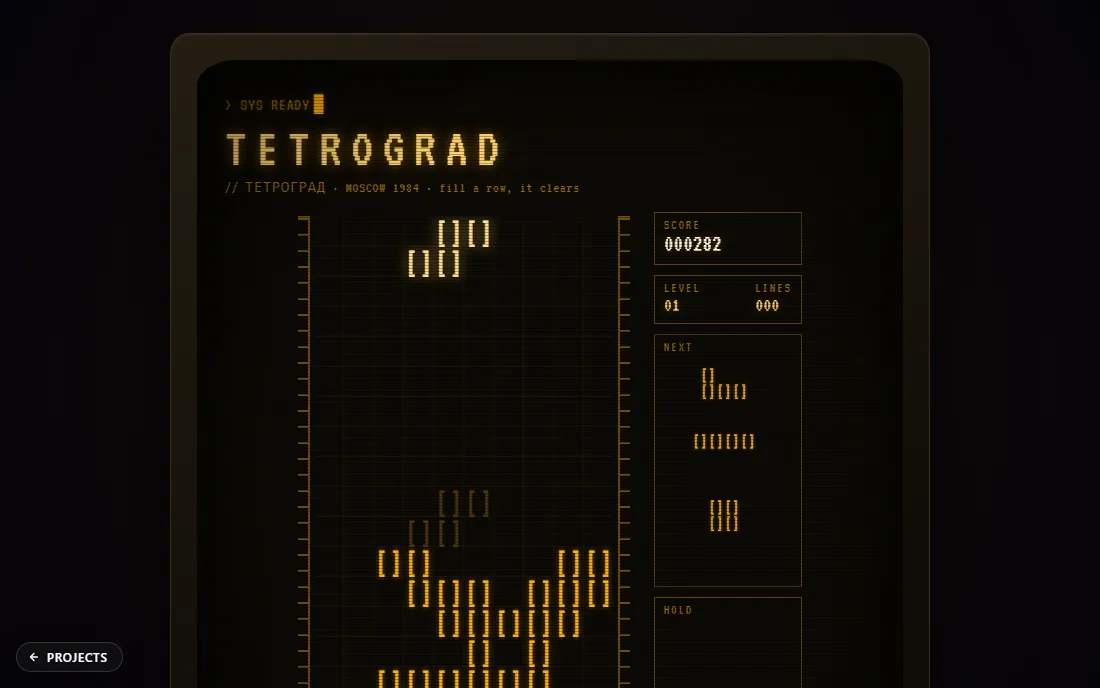
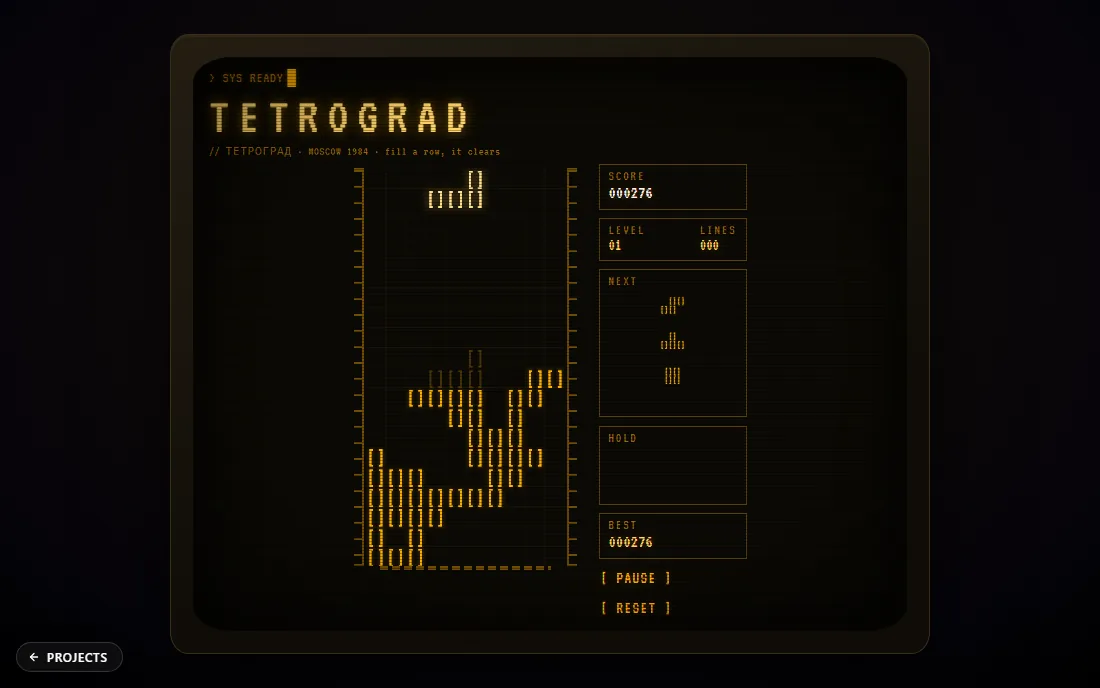
fix(dry-dock): fit Tetrograd to the viewport, no scroll to play
- the well now sizes from viewport height (--board-h, svh-based) and
  the width follows at 1:2, so the whole terminal fits without a
  scroll on laptop and desktop heights (tested 640 to 1080)
- masthead, boot line and subtitle trim on short viewports; NEXT and
  HOLD trays scale down; CRT padding tightened
- phones keep the readout beside the board (width-led board there)
- re-shot the thumbnail so the full game shows in frame

diff --git a/dry-dock/style.css b/dry-dock/style.css
@@ -16,16 +16,20 @@
   --phos-faint:#5c400a;
   --scan:      rgba(0, 0, 0, 0.32);
   --font: "VT323", "Consolas", ui-monospace, monospace;
+
+  /* the well is 10x20; height drives everything, width follows at 1:2.
+     the subtrahend reserves room for the casing, masthead and body pad. */
+  --board-h: clamp(360px, min(100svh - 290px, 116vw), 600px);
 }
 
 html { min-height: 100%; }
 
 body {
-  min-height: 100vh;
+  min-height: 100svh;
   display: flex;
   align-items: center;
   justify-content: center;
-  padding: clamp(10px, 3vw, 40px);
+  padding: clamp(8px, 2vw, 28px);
   font-family: var(--font);
   color: var(--phos);
   background:
@@ -45,7 +49,8 @@ body {
 /* -- CRT casing + screen ------------------------------- */
 .crt {
   width: min(760px, 100%);
-  padding: clamp(12px, 3vw, 26px);
+  max-height: calc(100svh - 16px);
+  padding: clamp(10px, 2.4vw, 22px);
   background: linear-gradient(160deg, #241d12, #0f0c07 70%);
   border-radius: 18px / 22px;
   border: 1px solid #3a2f1a;
@@ -55,7 +60,7 @@ body {
 }
 .screen {
   position: relative;
-  padding: clamp(16px, 3.5vw, 34px) clamp(14px, 3vw, 28px);
+  padding: clamp(12px, 2.6vw, 26px) clamp(12px, 2.6vw, 24px);
   background: var(--bg);
   border-radius: 40px / 26px;
   overflow: hidden;
@@ -98,9 +103,9 @@ body {
 @keyframes blink { 50% { opacity: 0; } }
 @media (prefers-reduced-motion: reduce) { .cursor { animation: none; } }
 
-.masthead { margin: 6px 0 16px; }
+.masthead { margin: 4px 0 clamp(8px, 2vh, 16px); }
 .masthead h1 {
-  font-size: clamp(2rem, 7vw, 3.4rem);
+  font-size: clamp(1.6rem, 4.5vw + 1vh, 3.2rem);
   font-weight: 400;
   letter-spacing: 0.18em;
   line-height: 1;
@@ -108,7 +113,7 @@ body {
   text-shadow: 0 0 12px rgba(255, 176, 0, 0.5), 0 0 30px rgba(255, 176, 0, 0.2);
 }
 .masthead-sub {
-  font-size: 0.95rem;
+  font-size: clamp(0.78rem, 1.6vw, 0.95rem);
   letter-spacing: 0.04em;
   color: var(--phos-dim);
   margin-top: 2px;
@@ -117,19 +122,20 @@ body {
 /* -- deck layout ------------------------------------- */
 .deck {
   display: flex;
-  gap: clamp(12px, 3vw, 24px);
+  gap: clamp(8px, 2vw, 22px);
   justify-content: center;
-  flex-wrap: wrap;
+  align-items: flex-start;
+  flex-wrap: nowrap;
 }
 
 .playfield-wrap {
   position: relative;
-  padding: 4px 16px 10px;
+  padding: 4px 12px 10px;
 }
 .wall {
   position: absolute;
   top: 4px; bottom: 14px;
-  width: 12px;
+  width: 10px;
   border-top: 2px solid var(--phos-dim);
   border-bottom: 2px solid var(--phos-dim);
   background: repeating-linear-gradient(180deg,
@@ -140,7 +146,7 @@ body {
 .wall-r { right: 0; border-left: 2px solid var(--phos-dim); }
 .floor {
   display: block;
-  margin: 0 16px;
+  margin: 0 14px;
   height: 4px;
   background: repeating-linear-gradient(90deg,
     var(--phos-dim) 0 8px, transparent 8px 12px);
@@ -149,31 +155,40 @@ body {
 
 #board {
   display: block;
-  width: 300px; height: 600px;
-  max-width: 58vw; max-height: 116vw;
+  height: var(--board-h);
+  width: auto;
+  max-width: 52vw;
+  aspect-ratio: 1 / 2;
   image-rendering: pixelated;
+}
+/* on a phone the height cap would make the board too wide to sit
+   beside the readout, so let width lead there */
+@media (max-width: 560px) {
+  #board { height: auto; width: min(52vw, calc(var(--board-h) / 2)); }
+  .readout { width: clamp(96px, 30vw, 130px); }
 }
 
 .overlay {
   position: absolute;
-  inset: 4px 14px 12px;
+  inset: 4px 12px 12px;
   z-index: 40;
   display: flex;
   flex-direction: column;
   align-items: center;
   justify-content: center;
-  gap: 10px;
-  padding: 18px;
+  gap: clamp(6px, 1.6vh, 10px);
+  padding: 16px 14px;
   text-align: center;
+  overflow-y: auto;
   background: rgba(13, 11, 6, 0.93);
 }
 .overlay-title {
-  font-size: clamp(1.6rem, 6vw, 2.4rem);
+  font-size: clamp(1.4rem, 5vw, 2.4rem);
   letter-spacing: 0.14em;
   color: var(--phos-hi);
   text-shadow: 0 0 14px rgba(255, 176, 0, 0.5);
 }
-.overlay-text { font-size: 1.05rem; color: var(--phos-dim); max-width: 22ch; }
+.overlay-text { font-size: clamp(0.9rem, 2vw, 1.05rem); color: var(--phos-dim); max-width: 22ch; }
 .overlay-btn, .term-btn {
   font-family: var(--font);
   font-size: 1.15rem;
@@ -191,25 +206,26 @@ body {
 
 .key-help {
   list-style: none;
-  margin-top: 10px;
+  margin-top: 8px;
   display: grid;
   grid-template-columns: 1fr 1fr;
   gap: 1px 18px;
-  font-size: 0.95rem;
+  font-size: clamp(0.8rem, 1.8vw, 0.95rem);
   color: var(--phos-faint);
 }
 .key-help b { color: var(--phos-dim); }
+@media (max-height: 640px) { .key-help { display: none; } }
 
 /* -- readout column --------------------------------- */
 .readout {
   display: flex;
   flex-direction: column;
-  gap: 10px;
-  width: 148px;
+  gap: clamp(5px, 1.2vh, 10px);
+  width: clamp(118px, 20vw, 148px);
 }
 .panel {
   border: 1px solid var(--phos-faint);
-  padding: 6px 9px 8px;
+  padding: 5px 9px 7px;
 }
 .panel-label {
   display: block;
@@ -218,7 +234,7 @@ body {
   color: var(--phos-dim);
 }
 .panel b {
-  font-size: 1.5rem;
+  font-size: clamp(1.15rem, 2.6vh, 1.5rem);
   font-weight: 400;
   color: var(--phos-hi);
   text-shadow: 0 0 8px rgba(255, 176, 0, 0.35);
@@ -229,13 +245,29 @@ body {
 @media (prefers-reduced-motion: reduce) { .panel b.bump { animation: none; } }
 .row3 { display: flex; justify-content: space-between; gap: 8px; }
 .row3 span { display: block; }
-.row3 b { font-size: 1.25rem; }
-#next, #hold { display: block; margin-top: 4px; }
+.row3 b { font-size: clamp(1rem, 2.2vh, 1.25rem); }
+#next, #hold {
+  display: block;
+  margin: 4px auto 0;
+  width: auto;
+  max-width: 100%;
+}
+#next { height: clamp(96px, 17vh, 180px); }
+#hold { height: clamp(40px, 7vh, 72px); }
 
-.term-btn { text-align: left; padding: 4px 2px; font-size: 1.05rem; }
+.term-btn { text-align: left; padding: 3px 2px; font-size: 1rem; }
 
 @media (max-width: 680px) {
-  .readout { width: 128px; }
   .key-help { grid-template-columns: 1fr; }
-  .masthead-sub { font-size: 0.82rem; }
+}
+/* short viewports: trim the masthead so the board never needs a scroll */
+@media (max-height: 820px) {
+  .masthead { margin-bottom: 6px; }
+  .boot { font-size: 0.92rem; min-height: 1.05em; }
+  .masthead-sub { font-size: 0.78rem; }
+  .screen { padding: 12px 16px; }
+}
+@media (max-height: 640px) {
+  .masthead-sub { display: none; }
+  .boot { display: none; }
 }
